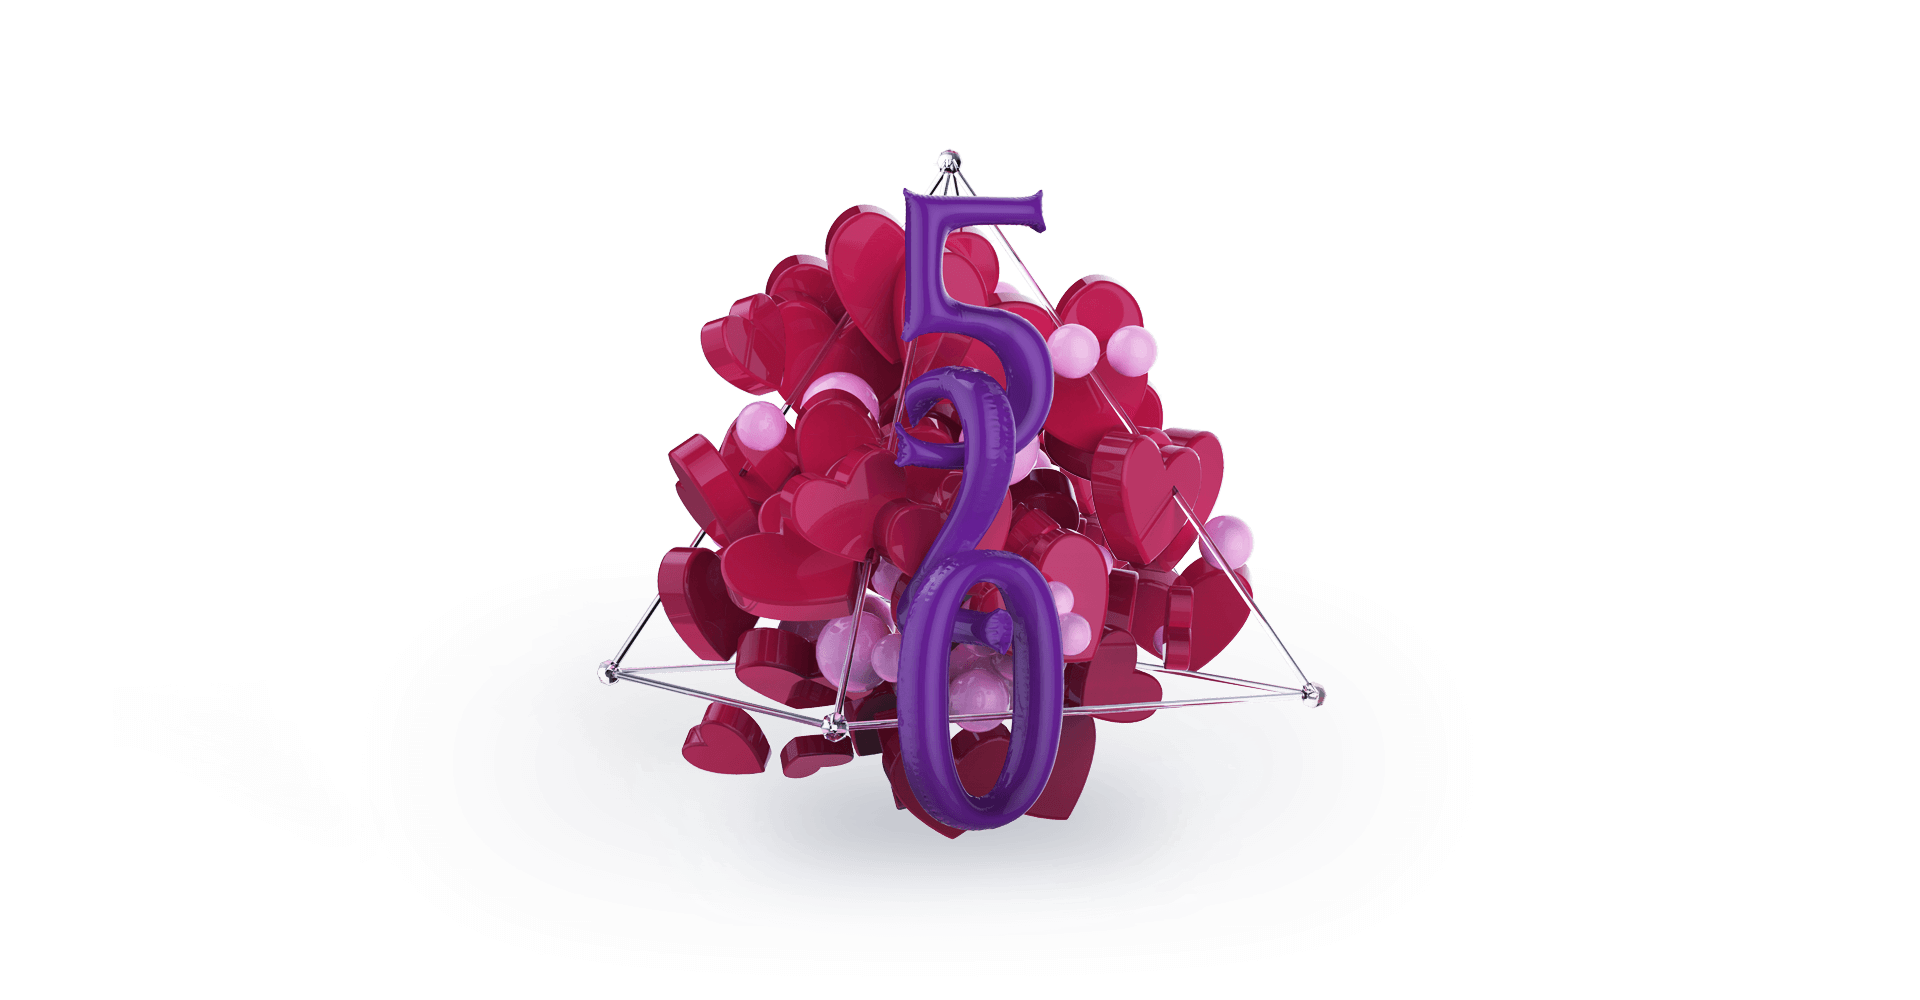
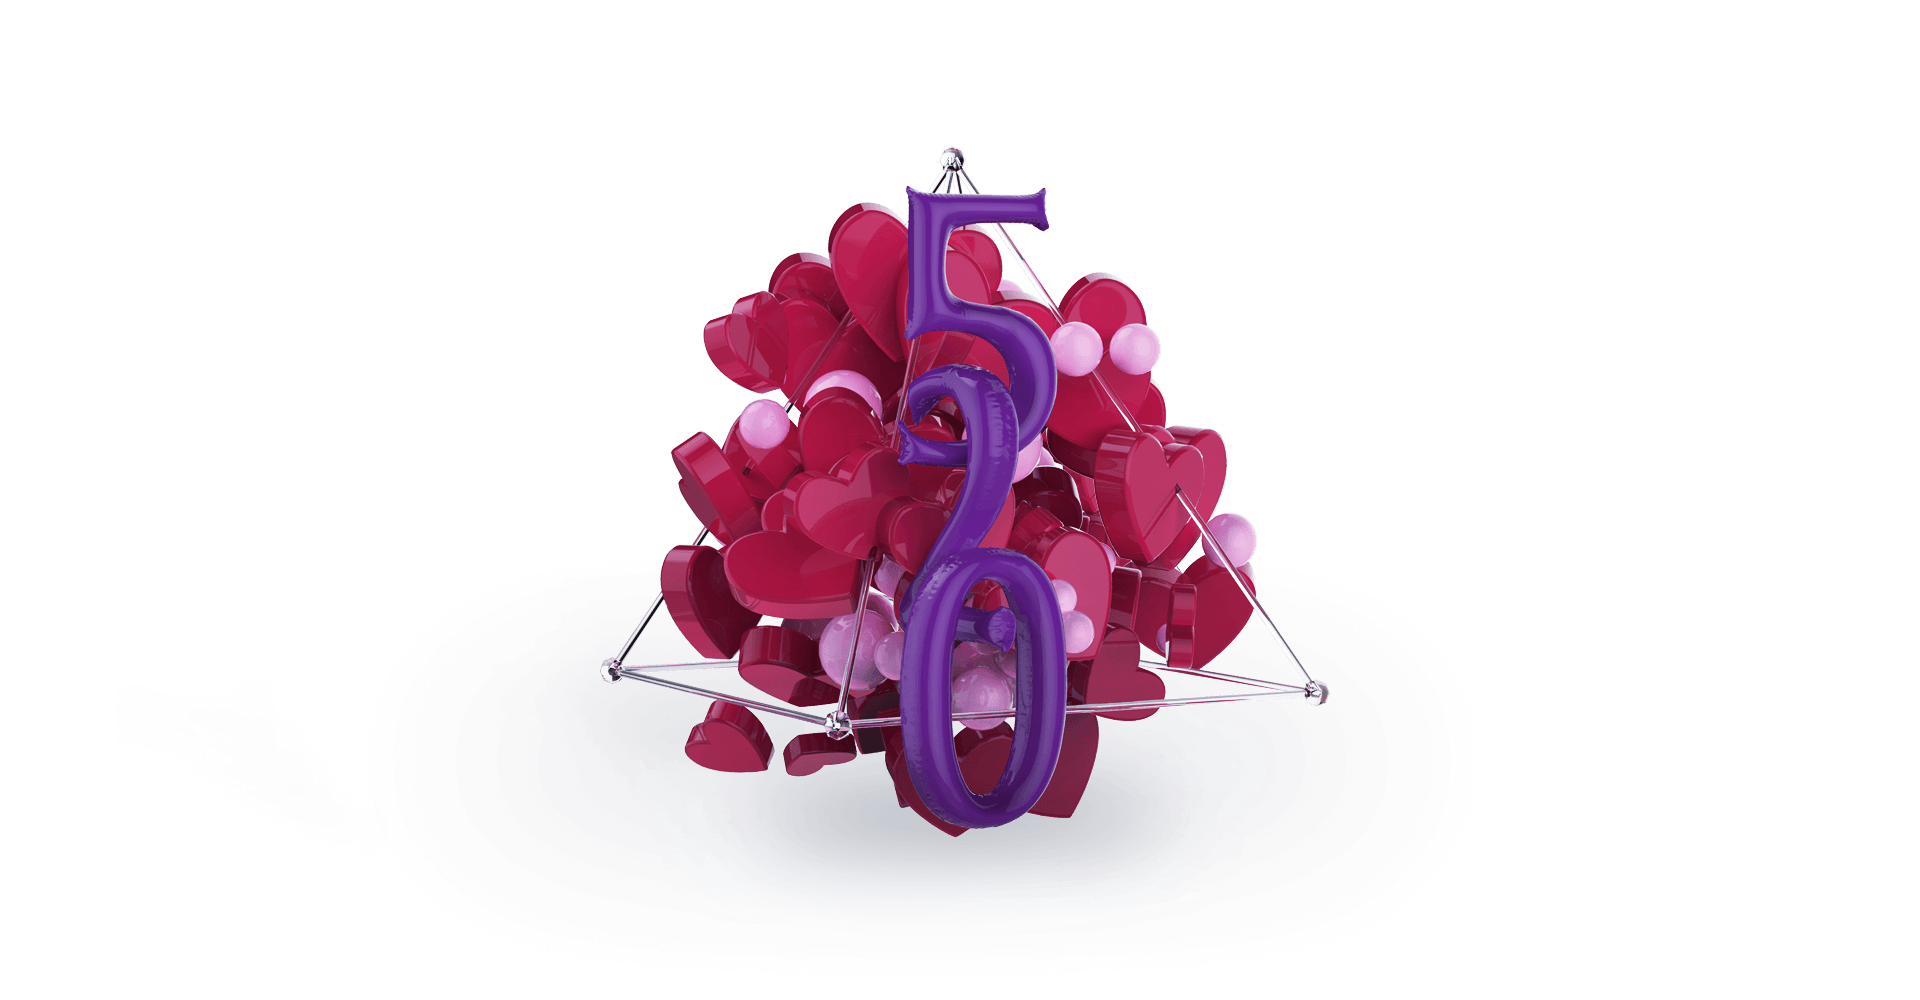
3.3.1
轮播图膨胀效果

Changed region(s): [[0.3125, 0.155, 0.6875, 0.837], [0.5312, 0.806, 0.5625, 0.837]]

diff --git a/styles.css b/styles.css
@@ -262,7 +262,92 @@ nav {
   position: relative;
   top: 50%;
   left: 50%;
-  transform: translate(-50%, -50%);
+  -webkit-animation: expand 7s infinite alternate;
+  -moz-animation: expand 7s infinite alternate;
+  -ms-animation: expand 7s infinite alternate;
+  -o-animation: expand 7s infinite alternate;
+  animation: expand 7s infinite alternate;
+  transform-origin: center;
+}
+@-webkit-keyframes expand {
+  0% {
+    -webkit-transform: scale(1) translate(-50%, -50%);
+    -moz-transform: scale(1) translate(-50%, -50%);
+    -o-transform: scale(1) translate(-50%, -50%);
+    -ms-transform: scale(1) translate(-50%, -50%);
+    transform: scale(1) translate(-50%, -50%);
+  }
+  100% {
+    -webkit-transform: scale(1.04) translate(-48%, -48%);
+    -moz-transform: scale(1.04) translate(-48%, -48%);
+    -o-transform: scale(1.04) translate(-48%, -48%);
+    -ms-transform: scale(1.04) translate(-48%, -48%);
+    transform: scale(1.04) translate(-48%, -48%);
+  }
+}
+@-moz-keyframes expand {
+  0% {
+    -webkit-transform: scale(1) translate(-50%, -50%);
+    -moz-transform: scale(1) translate(-50%, -50%);
+    -o-transform: scale(1) translate(-50%, -50%);
+    -ms-transform: scale(1) translate(-50%, -50%);
+    transform: scale(1) translate(-50%, -50%);
+  }
+  100% {
+    -webkit-transform: scale(1.04) translate(-48%, -48%);
+    -moz-transform: scale(1.04) translate(-48%, -48%);
+    -o-transform: scale(1.04) translate(-48%, -48%);
+    -ms-transform: scale(1.04) translate(-48%, -48%);
+    transform: scale(1.04) translate(-48%, -48%);
+  }
+}
+@-ms-keyframes expand {
+  0% {
+    -webkit-transform: scale(1) translate(-50%, -50%);
+    -moz-transform: scale(1) translate(-50%, -50%);
+    -o-transform: scale(1) translate(-50%, -50%);
+    -ms-transform: scale(1) translate(-50%, -50%);
+    transform: scale(1) translate(-50%, -50%);
+  }
+  100% {
+    -webkit-transform: scale(1.04) translate(-48%, -48%);
+    -moz-transform: scale(1.04) translate(-48%, -48%);
+    -o-transform: scale(1.04) translate(-48%, -48%);
+    -ms-transform: scale(1.04) translate(-48%, -48%);
+    transform: scale(1.04) translate(-48%, -48%);
+  }
+}
+@-o-keyframes expand {
+  0% {
+    -webkit-transform: scale(1) translate(-50%, -50%);
+    -moz-transform: scale(1) translate(-50%, -50%);
+    -o-transform: scale(1) translate(-50%, -50%);
+    -ms-transform: scale(1) translate(-50%, -50%);
+    transform: scale(1) translate(-50%, -50%);
+  }
+  100% {
+    -webkit-transform: scale(1.04) translate(-48%, -48%);
+    -moz-transform: scale(1.04) translate(-48%, -48%);
+    -o-transform: scale(1.04) translate(-48%, -48%);
+    -ms-transform: scale(1.04) translate(-48%, -48%);
+    transform: scale(1.04) translate(-48%, -48%);
+  }
+}
+@keyframes expand {
+  0% {
+    -webkit-transform: scale(1) translate(-50%, -50%);
+    -moz-transform: scale(1) translate(-50%, -50%);
+    -o-transform: scale(1) translate(-50%, -50%);
+    -ms-transform: scale(1) translate(-50%, -50%);
+    transform: scale(1) translate(-50%, -50%);
+  }
+  100% {
+    -webkit-transform: scale(1.04) translate(-48%, -48%);
+    -moz-transform: scale(1.04) translate(-48%, -48%);
+    -o-transform: scale(1.04) translate(-48%, -48%);
+    -ms-transform: scale(1.04) translate(-48%, -48%);
+    transform: scale(1.04) translate(-48%, -48%);
+  }
 }
 @-webkit-keyframes carousel1bg {
   0% {
@@ -385,25 +470,25 @@ nav {
   }
 }
 #carousel1bg {
-  -webkit-animation: carousel1bg 3s infinite alternate;
-  -moz-animation: carousel1bg 3s infinite alternate;
-  -ms-animation: carousel1bg 3s infinite alternate;
-  -o-animation: carousel1bg 3s infinite alternate;
-  animation: carousel1bg 3s infinite alternate;
+  -webkit-animation: carousel1bg 6s infinite alternate;
+  -moz-animation: carousel1bg 6s infinite alternate;
+  -ms-animation: carousel1bg 6s infinite alternate;
+  -o-animation: carousel1bg 6s infinite alternate;
+  animation: carousel1bg 6s infinite alternate;
 }
 #carousel2bg {
-  -webkit-animation: carousel2bg 3s infinite alternate;
-  -moz-animation: carousel2bg 3s infinite alternate;
-  -ms-animation: carousel2bg 3s infinite alternate;
-  -o-animation: carousel2bg 3s infinite alternate;
-  animation: carousel2bg 3s infinite alternate;
+  -webkit-animation: carousel2bg 6s infinite alternate;
+  -moz-animation: carousel2bg 6s infinite alternate;
+  -ms-animation: carousel2bg 6s infinite alternate;
+  -o-animation: carousel2bg 6s infinite alternate;
+  animation: carousel2bg 6s infinite alternate;
 }
 #carousel3bg {
-  -webkit-animation: carousel3bg 3s infinite alternate;
-  -moz-animation: carousel3bg 3s infinite alternate;
-  -ms-animation: carousel3bg 3s infinite alternate;
-  -o-animation: carousel3bg 3s infinite alternate;
-  animation: carousel3bg 3s infinite alternate;
+  -webkit-animation: carousel3bg 6s infinite alternate;
+  -moz-animation: carousel3bg 6s infinite alternate;
+  -ms-animation: carousel3bg 6s infinite alternate;
+  -o-animation: carousel3bg 6s infinite alternate;
+  animation: carousel3bg 6s infinite alternate;
 }
 .allPicc4d {
   padding-top: 0;
@@ -429,6 +514,9 @@ ul.c4d {
 }
 ul.c4d li {
   display: inline-block;
+}
+.thumbnail {
+  border: none;
 }
 @media only screen and (min-device-width: 375px) and (max-device-width: 667px) and (orientation: portrait) {
   .progress {

diff --git a/index.html b/index.html
@@ -47,7 +47,7 @@
     </div>
   </nav>
   <div class="c4d text-center" id="c4d-container">
-    <div class="carousel slide" data-ride="carousel" id="slideshow" data-pause="false ">
+    <div class="carousel slide" data-ride="carousel" id="slideshow" data-pause="false" data-interval="7000">
       <ol class="carousel-indicators">
         <li data-target="#slideshow" data-slide-to="0" class="active"></li>
         <li data-target="#slideshow" data-slide-to="1" ></li>
@@ -55,9 +55,9 @@
       </ol>
       <div class="btn-all-c4d"><span>查看全部</span></div>
       <div class="carousel-inner">
-        <div class="item active" id="carousel1bg"><img src="images/carousel_01_lg1920.png" alt=""></div>
-        <div class="item" id="carousel2bg"><img src="images/carousel_02_lg1920.png" alt=""></div>
-        <div class="item" id="carousel3bg"><img src="images/carousel_03_lg1920.png" alt=""></div>
+        <div class="item active" id="carousel1bg"><img id="carouselItem1" src="images/carousel_01_lg1920.png" alt=""></div>
+        <div class="item" id="carousel2bg"><img id="carouselItem2" src="images/carousel_02_lg1920.png" alt=""></div>
+        <div class="item" id="carousel3bg"><img id="carouselItem3" src="images/carousel_03_lg1920.png" alt=""></div>
       </div>
       <a href="#slideshow" class="left carousel-control" data-slide="prev">
         <div class="carousel-control-dot-left"></div>
@@ -102,6 +102,7 @@
 <script type="text/javascript" src="js/carousel-dot.js"></script>
 <script type="text/javascript" src="js/loading.js"></script>
 <script type="text/javascript" src="js/toseeall.js"></script>
+<script type="text/javascript" src="js/mouseMove.js"></script>
 <script type="text/javascript" charset="utf-8">
 //  $(function() {
 //      $("img.lazy").lazyload({effect: "fadeIn"});

diff --git a/js/mouseMove.js b/js/mouseMove.js
@@ -1,0 +1,45 @@
+// JavaScript Document
+$(document).ready(function(){
+  var winHeight;
+  var winWidth;
+  function findDimensions(){
+     //函数：获取尺寸
+        //获取窗口宽度
+        if (window.innerWidth){
+          winWidth = window.innerWidth;
+        }
+        else if ((document.body) && (document.body.clientWidth)){
+          winWidth = document.body.clientWidth;
+        }
+        //获取窗口高度
+        if (window.innerHeight){
+          winHeight = window.innerHeight;
+        }
+        else if ((document.body) && (document.body.clientHeight)){
+          winHeight = document.body.clientHeight;
+        }
+        //通过深入Document内部对body进行检测，获取窗口大小
+        if (document.documentElement  && document.documentElement.clientHeight && document.documentElement.clientWidth){
+        winHeight = document.documentElement.clientHeight;
+        winWidth = document.documentElement.clientWidth;
+        }  
+  } 
+  findDimensions();
+  $(window).resize(findDimensions());
+  function mouseMove(ev) { 
+    ev= ev || window.event; 
+    var mousePos = mouseCoords(ev); 
+//    document.getElementById("xxx").value = mousePos.x; 
+//    document.getElementById("yyy").value = mousePos.y; 
+    }
+  function mouseCoords(ev) { 
+  if(ev.pageX || ev.pageY){ 
+    return {x:ev.pageX, y:ev.pageY}; 
+  } 
+    return{ 
+    x:ev.clientX + document.body.scrollLeft - document.body.clientLeft, 
+    y:ev.clientY + document.body.scrollTop - document.body.clientTop 
+  }; 
+  } 
+  document.onmousemove = mouseMove;
+});

diff --git a/styles.less b/styles.less
@@ -203,8 +203,13 @@ nav {
   position: relative;
   top: 50%;
   left: 50%;
-  transform: translate(-50%,-50%);
+  .animation(expand 7s infinite alternate);
+  transform-origin: center;
 }
+.keyframes(expand,{
+  0%{.transform(scale(1)translate(-50%,-50%);)}
+  100%{.transform(scale(1.04)translate(-48%,-48%);)}
+});
 .carousel-indicators li{
 }
 .keyframes (carousel1bg,{
@@ -220,13 +225,13 @@ nav {
   100%{background: #000000;}
 });
 #carousel1bg {
-  .animation(carousel1bg 3s infinite alternate);
+  .animation(carousel1bg 6s infinite alternate);
 }
 #carousel2bg {
-  .animation(carousel2bg 3s infinite alternate);
+  .animation(carousel2bg 6s infinite alternate);
 }
 #carousel3bg {
-  .animation(carousel3bg 3s infinite alternate);
+  .animation(carousel3bg 6s infinite alternate);
 }
 .allPicc4d {
   padding-top: 0;
@@ -252,6 +257,9 @@ ul.c4d {
 }
 ul.c4d li{
   display: inline-block;
+}
+.thumbnail {
+  border: none;
 }
 @media only screen and (min-device-width: 375px) and (max-device-width: 667px) and (orientation : portrait) {
   .progress {
